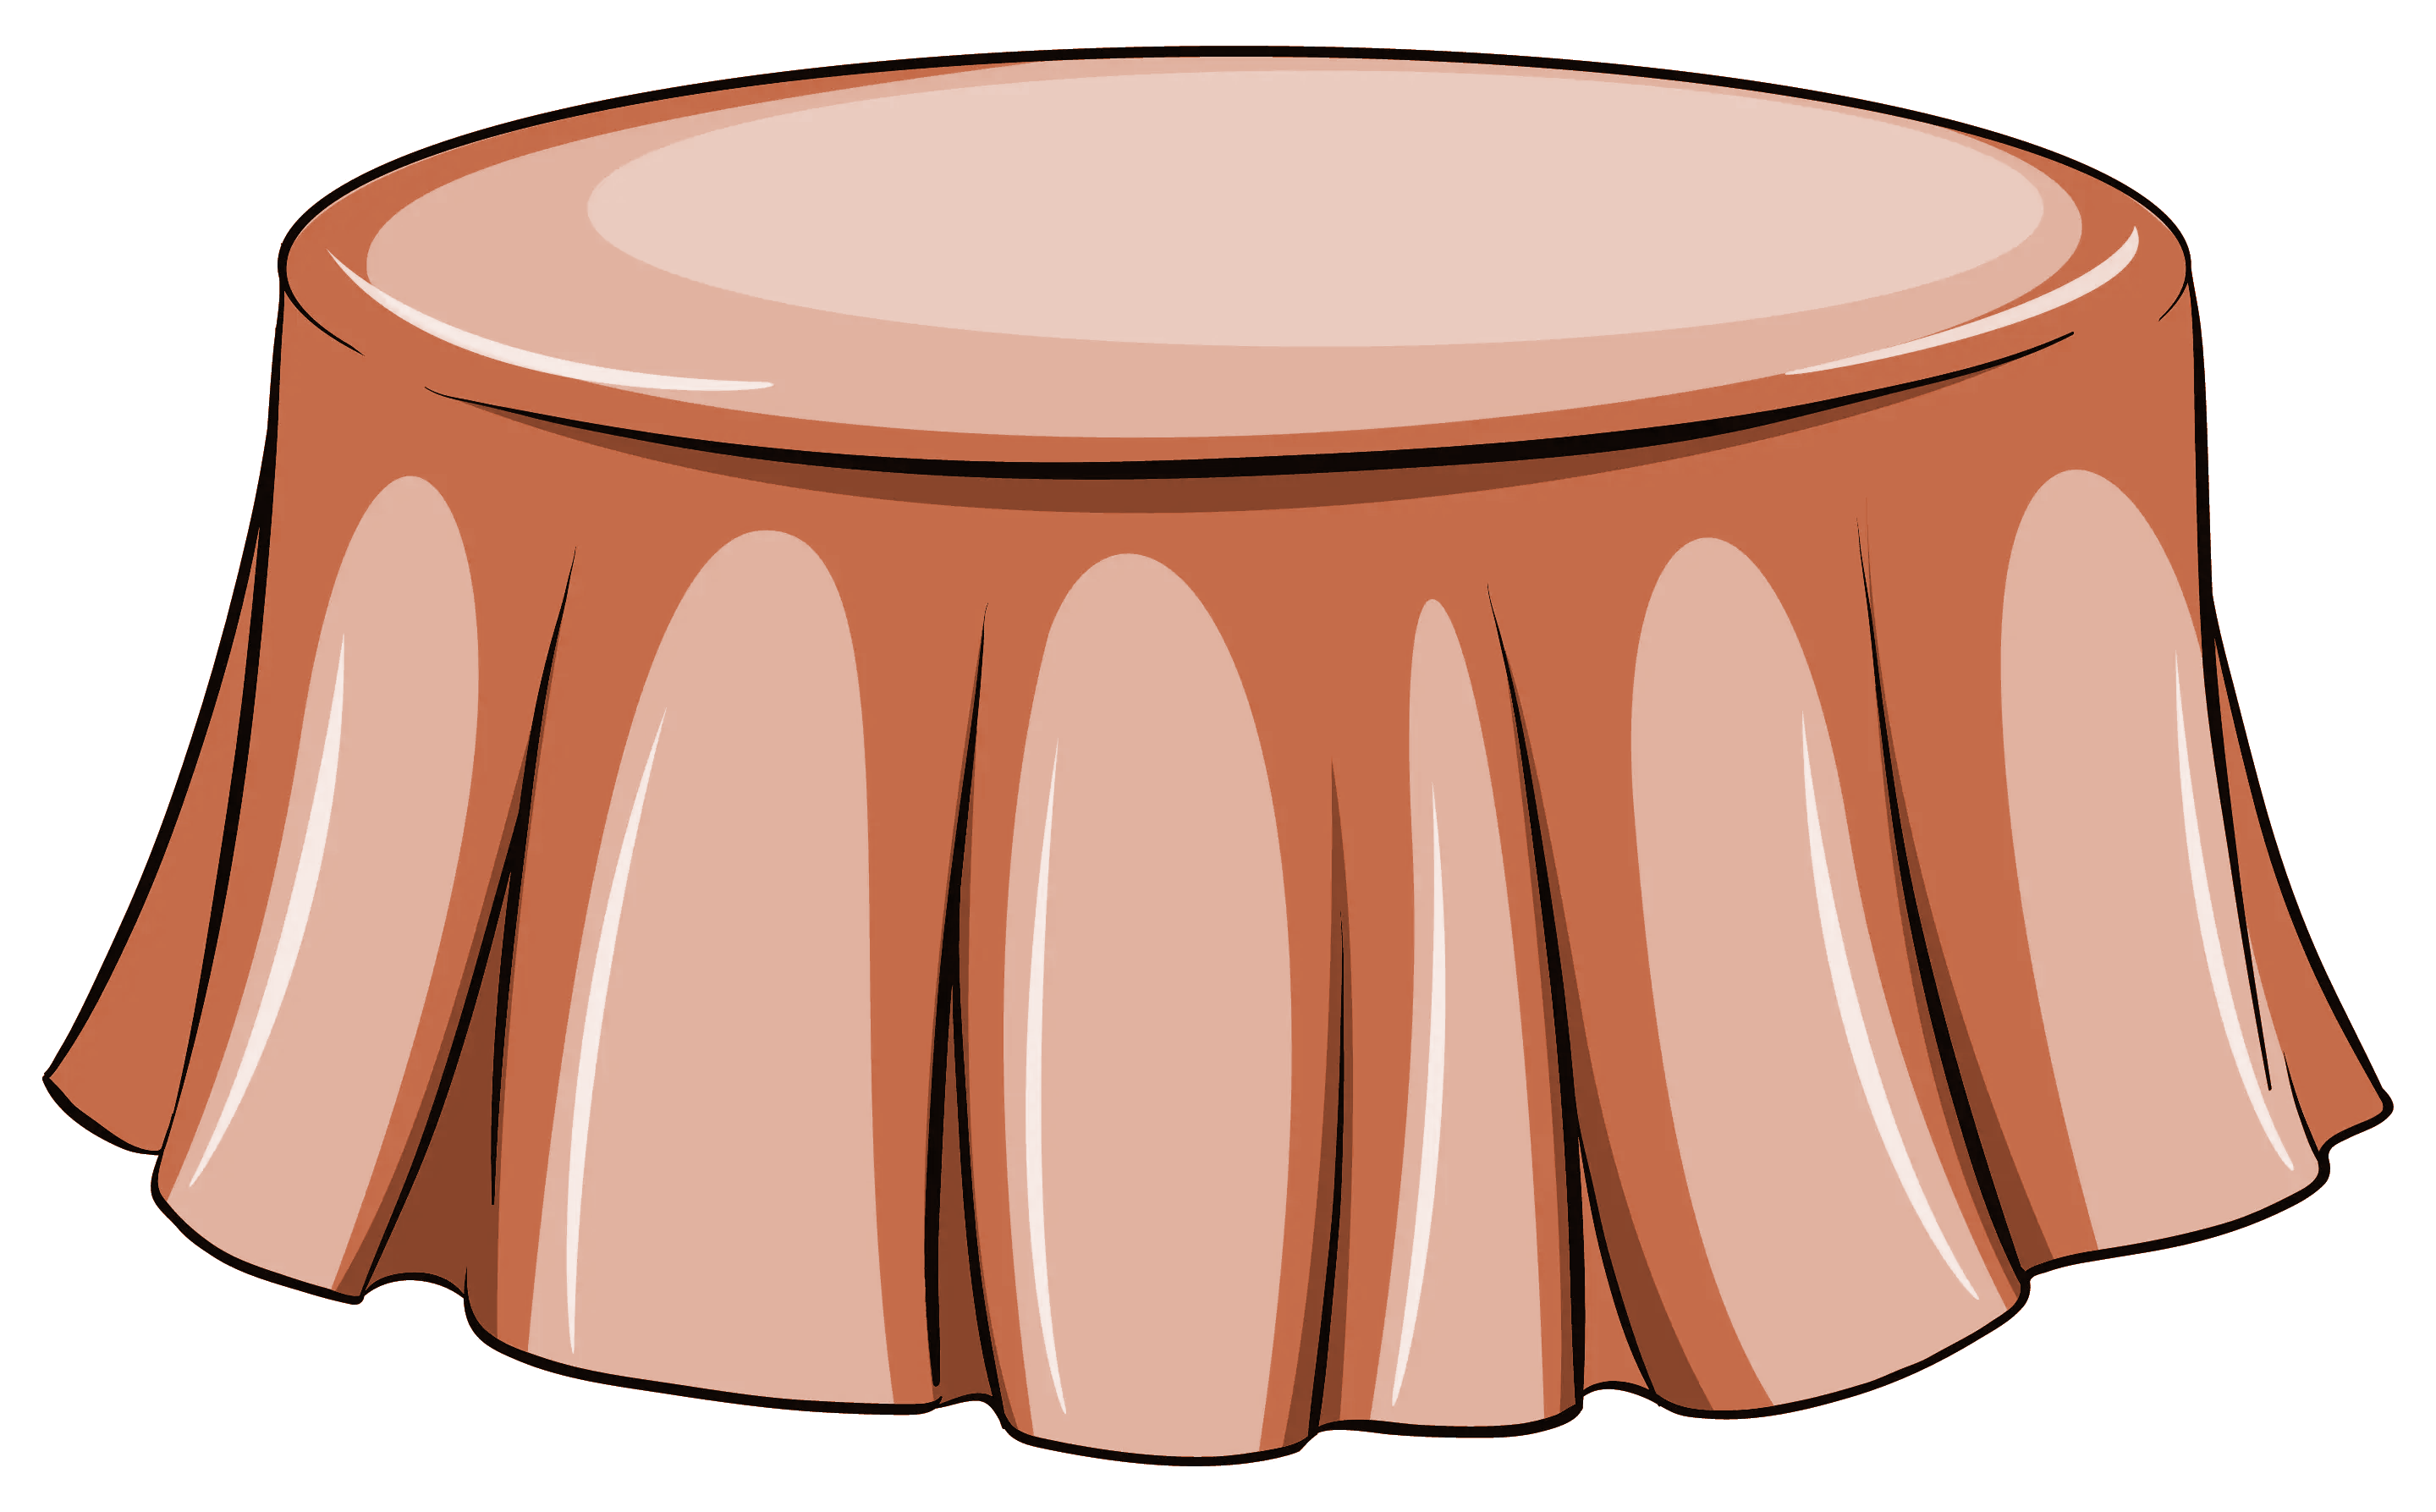
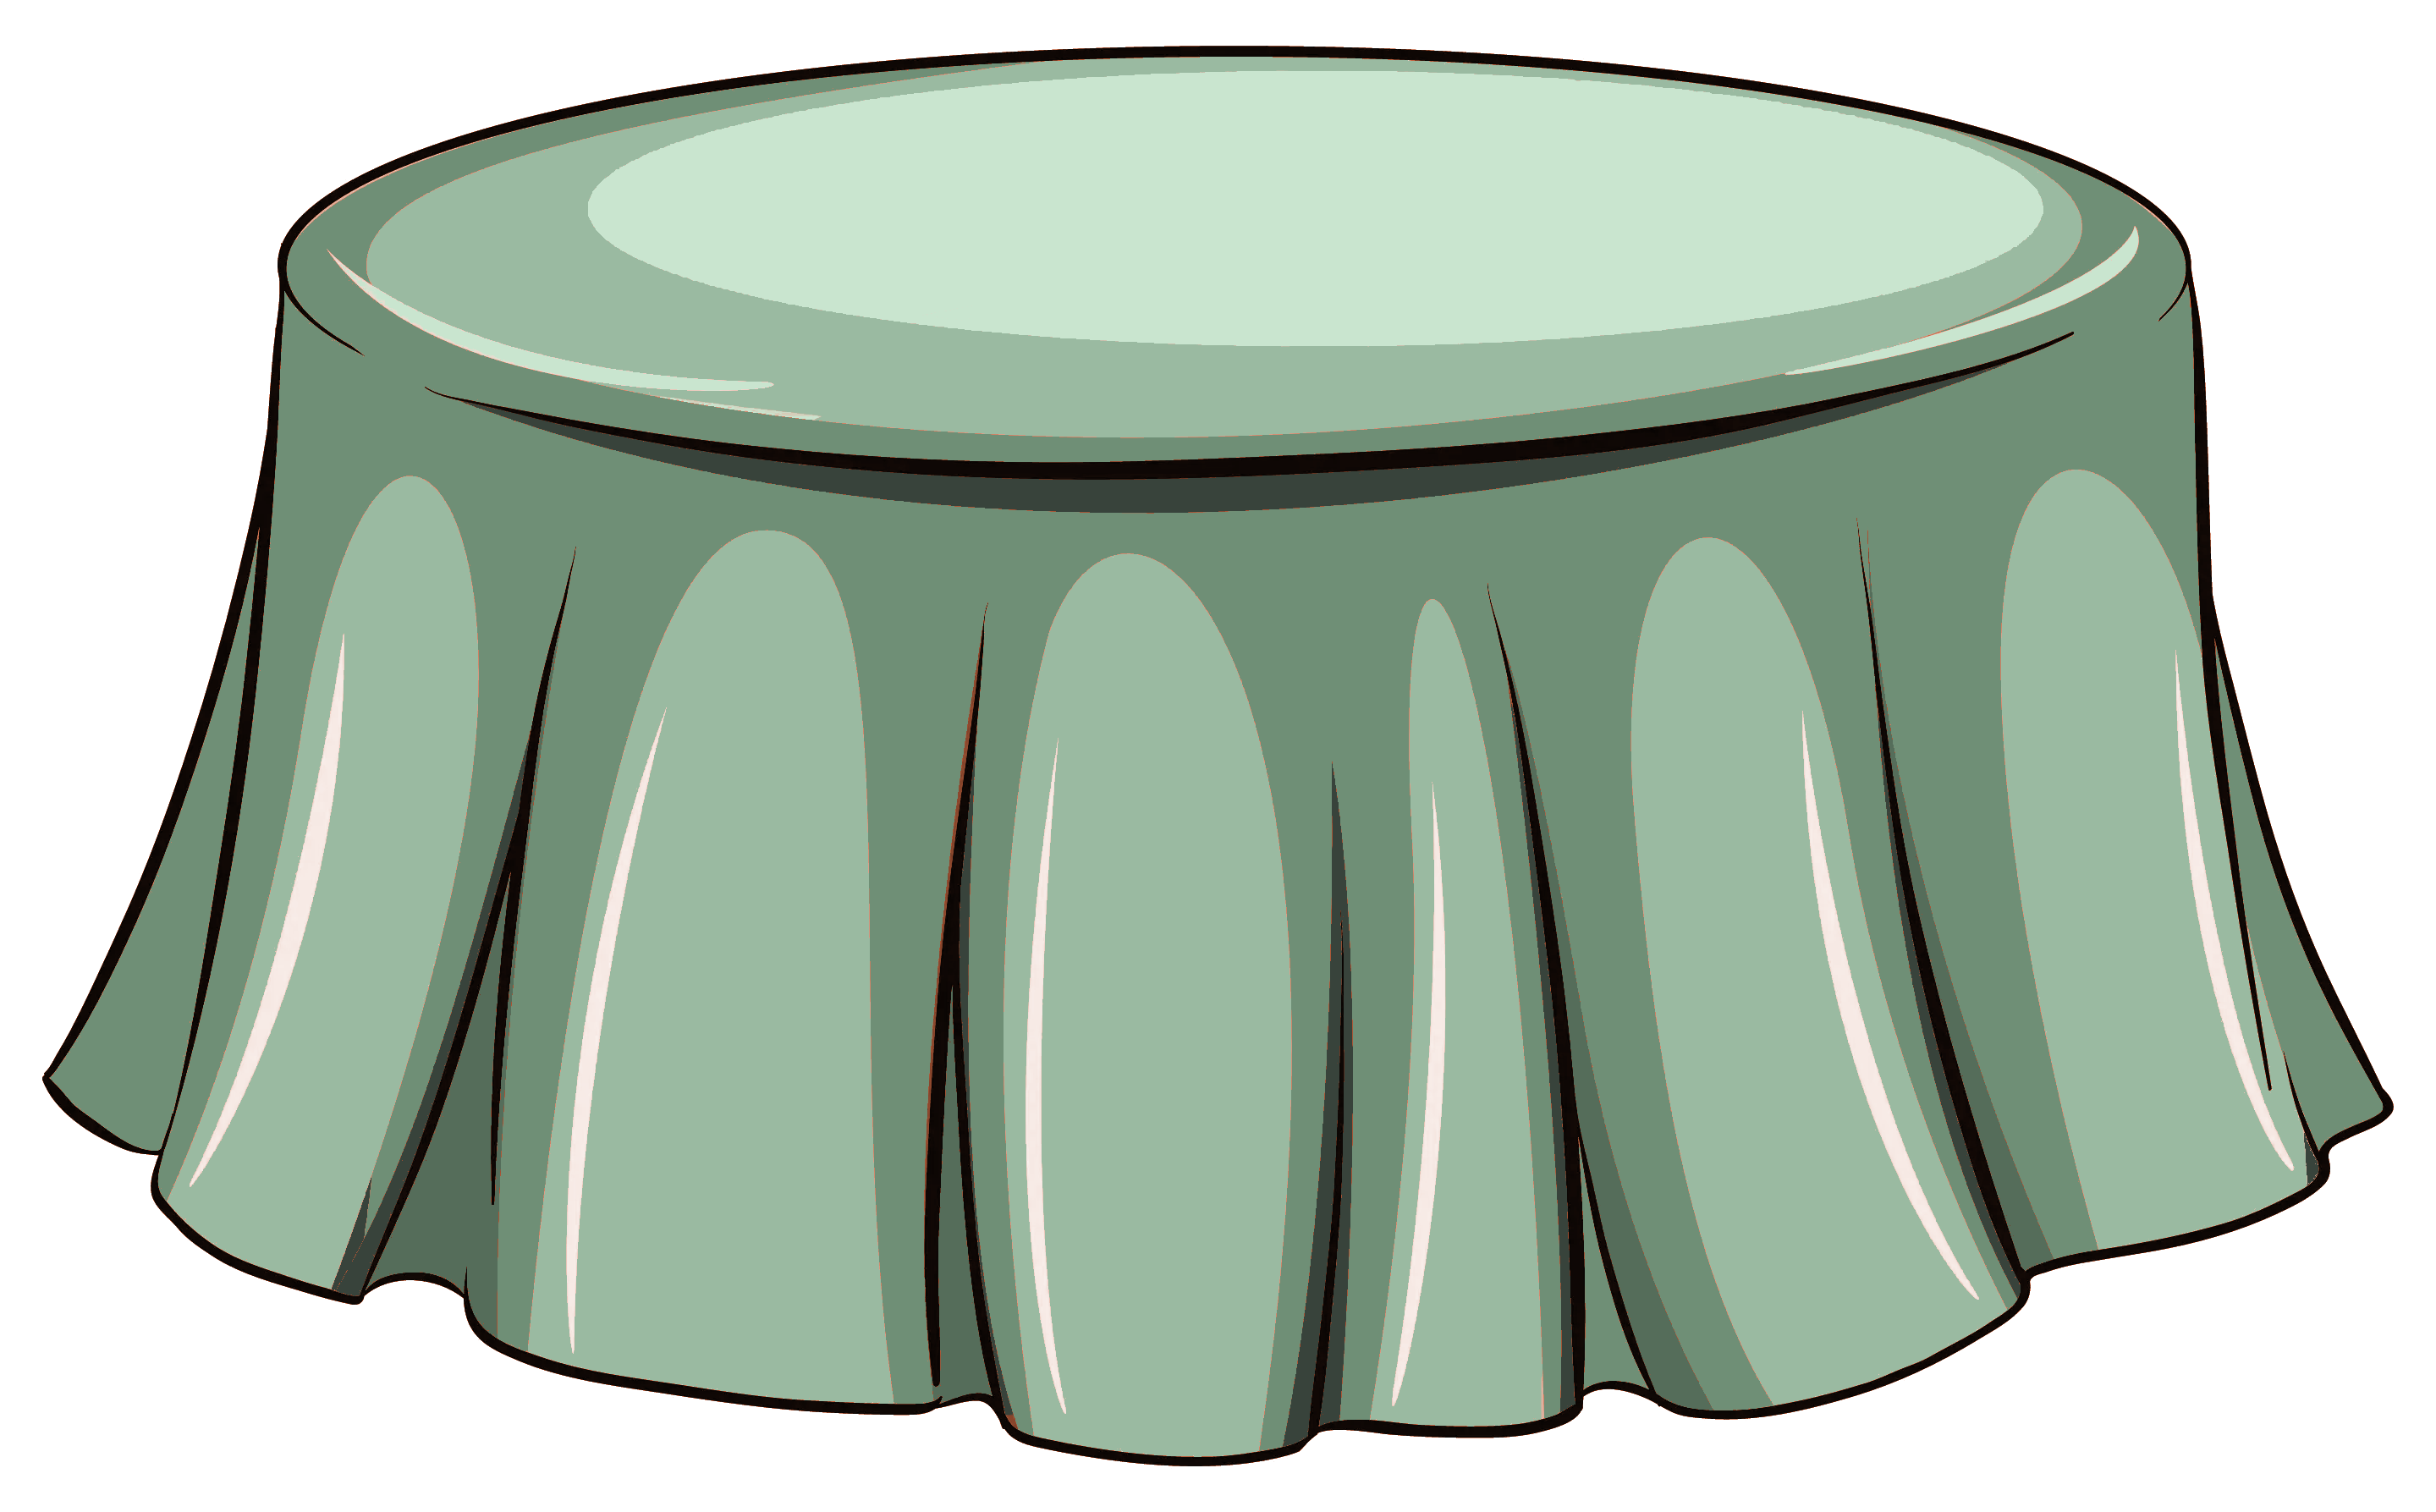
Update from https://github.com/Milszym/weddie-site/commit/9c0799d72b09f2dd4a52f7206d77f4c2dfba3e91

diff --git a/index.html b/index.html
@@ -1,1 +1,1 @@
-<!doctype html><html lang="en"><head><meta charset="utf-8"/><link rel="icon" href="/images/ring_favicon.png"/><meta name="viewport" content="width=device-width,initial-scale=1"/><meta name="theme-color" content="#000000"/><meta name="description" content="Wesele Doroty i Szymona"/><link rel="preconnect" href="https://fonts.googleapis.com"><link rel="preconnect" href="https://fonts.gstatic.com" crossorigin><link href="https://fonts.googleapis.com/css2?family=Cormorant:ital,wght@0,300..700;1,300..700&family=Great+Vibes" rel="stylesheet"><link rel="apple-touch-icon" href="/images/ring_favicon.png"/><link rel="manifest" href="/manifest.json"/><title>Adrianna & Mateusz</title><script defer="defer" src="/static/js/main.761a64d5.js"></script><link href="/static/css/main.7a11ec9b.css" rel="stylesheet"></head><body><noscript>You need to enable JavaScript to run this app.</noscript><div id="root"></div></body></html>
+<!doctype html><html lang="en"><head><meta charset="utf-8"/><link rel="icon" href="/images/ring_favicon.png"/><meta name="viewport" content="width=device-width,initial-scale=1"/><meta name="theme-color" content="#000000"/><meta name="description" content="Wesele Doroty i Szymona"/><link rel="preconnect" href="https://fonts.googleapis.com"><link rel="preconnect" href="https://fonts.gstatic.com" crossorigin><link href="https://fonts.googleapis.com/css2?family=Cormorant:ital,wght@0,300..700;1,300..700&family=Great+Vibes" rel="stylesheet"><link rel="apple-touch-icon" href="/images/ring_favicon.png"/><link rel="manifest" href="/manifest.json"/><title>Adrianna & Mateusz</title><script defer="defer" src="/static/js/main.25427832.js"></script><link href="/static/css/main.7a11ec9b.css" rel="stylesheet"></head><body><noscript>You need to enable JavaScript to run this app.</noscript><div id="root"></div></body></html>